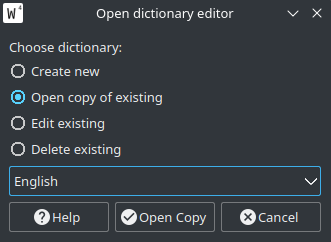
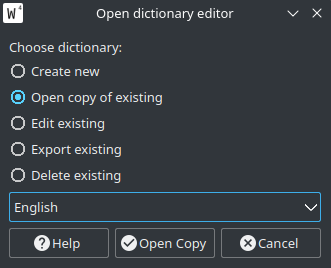
Fixed export caption, updated doc image

diff --git a/src/DictionaryEditorLauncher.cpp b/src/DictionaryEditorLauncher.cpp
@@ -9,7 +9,7 @@ namespace wf
         , buttons(QDialogButtonBox::Help | QDialogButtonBox::Ok | QDialogButtonBox::Cancel)
         , export_destination_dialog(
             this,
-            "Select word list source",
+            "Choose export destination",
             QStandardPaths::writableLocation(QStandardPaths::DesktopLocation)
         )
     {
